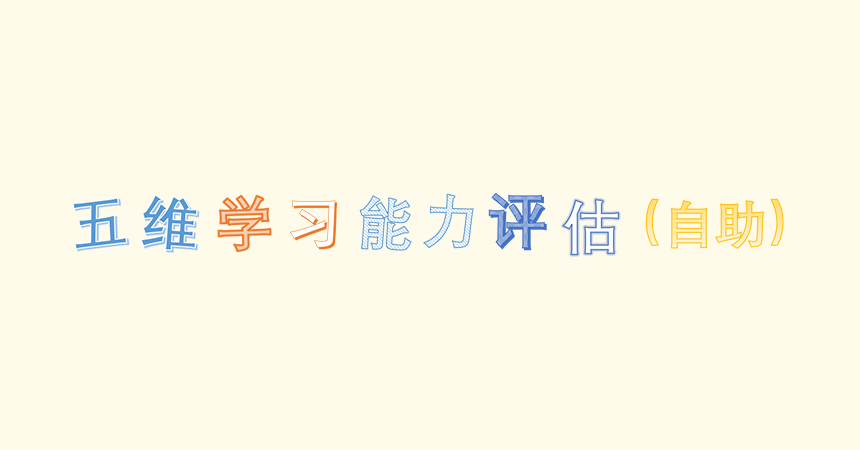
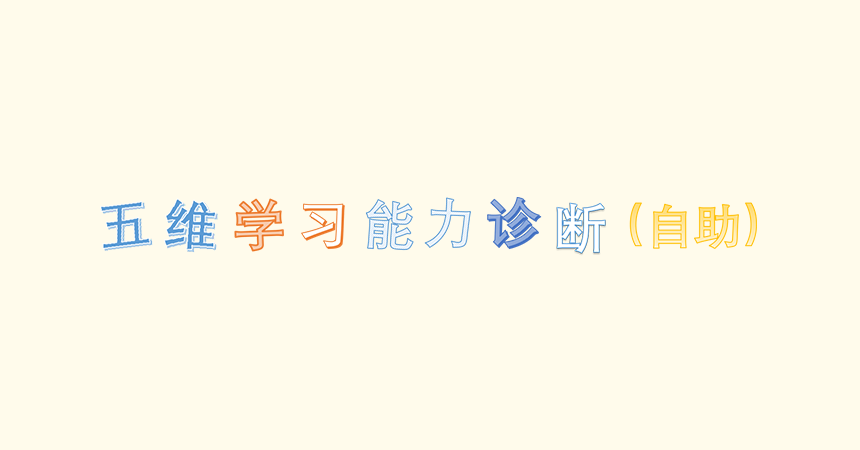
五维学习能力诊断（当前状态）修改

Changed region(s): [[0.0907, 0.4356, 0.9372, 0.5911]]

diff --git a/index.html b/index.html
@@ -100,7 +100,7 @@
 			<div id="pop" class="mui-popover" >
 				<div class="introduceEva">
 					<img src="image/introduceTe.png" style="width: 24px;" />
-					认知能力测评（当前状态）是融合心理学与脑科学，基于常模数据了解各项认知能力发展状况的测评体系。分为基础和学业认知能力测评。认知能力是大脑信息加工、存储和提取的能力，包括记忆、空间、注意等能力，是学生获得任何知识、技能的基础，所以也称之为学习能力。它对学习成绩、职业成就等具有显著预测作用。测评出的优势认知能力和待提高认知能力只是当前状态下的，认知能力并不是一成不变，具有巨大可塑性，可通过训练改变。
+					五维学习能力诊断（当前状态）是一种将认知科学、心理学与神经科学等多学科知识融合起来，基于常模数据了解各项基础学习能力发展状况的评估体系。我们从多种学习能力中挑选出了5种比较有代表性，且与学生学习成绩有比较紧密的能力：推理能力、空间能力、注意能力、记忆能力和知觉加工速度。为考察这五个维度的能力，我们挑选了5个具有良好信度与效度的测验进行诊断，该诊断可测量出学生的优势学习能力和待提高学习能力。人的学习能力并不是一成不变的，它具有巨大的可塑性，可以结合诊断结果在后期进行针对性的训练，以促进学习能力发展。
 				</div>
 			</div>
 		</div>

diff --git a/radar.html b/radar.html
@@ -60,7 +60,7 @@
     var tasklogo = JSON.parse(localStorage.getItem('tasklogo'));
     var coidpic_whole = localStorage.getItem('coidpic_whole');
 
-    $("#typeImg").attr("src","http://www.dweipsy.com/lattice/Users/report/"+coidpic_whole+"/"+projectid+"/"+"aizhikangxueersi.gif");
+    // $("#typeImg").attr("src","http://www.dweipsy.com/lattice/Users/report/"+coidpic_whole+"/"+projectid+"/"+"aizhikangxueersi.gif");
     var projectInfo = JSON.parse(localStorage.getItem('project'));
     var userInfoProject = JSON.parse(localStorage.getItem('user'));
     $('#ch_title').html(projectInfo.projectname);
